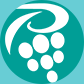
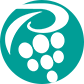
task3

diff --git a/task3.html b/task3.html
@@ -2,6 +2,7 @@
 <html>
 <head lang="en">
     <meta charset="UTF-8">
+    <meta name="viewport" content="width=device-width,initial-scale=1.0"/>
     <title>魔镜</title>
     <link rel="stylesheet" type="text/css" href="task3.css" />
 
@@ -9,17 +10,17 @@
 <body>
 
 <div class="header1">
-    <img src="images/task3_recoder_03.png"/>
+    <img src="images/task3_recoder_03.png"width="40px" height="40px"/>
 </div>
 <div class="header2">
-    <img src="images/task3-putaoteng_03.png"/>
+    <img src="images/task3-putaoteng_03.png"width="126.7px" height="49px"/>
 </div>
 <div class="contain">
     葡萄藤轻游戏专注于桌游领域，提供在线杀人游戏，捉鬼，炸狼堡等多种聚会游戏，以下线下聚会桌游道具。
 </div>
 <div class="foot1">
     <div class="top1">
-        <img src="images/task3-t_03.png"/>
+        <img src="images/task3-t_03.png"width="50px" height="50px"/>
     </div>
     <div class="bottom1">
         290560933
@@ -27,7 +28,7 @@
 </div>
 <div class="foot2">
     <div class="top2">
-        <img src="images/task3-top2_03.png"/>
+        <img src="images/task3-top2_03.png"width="50px" height="50px"/>
     </div>
     <div class="bottom2">
         BJPTTeng
